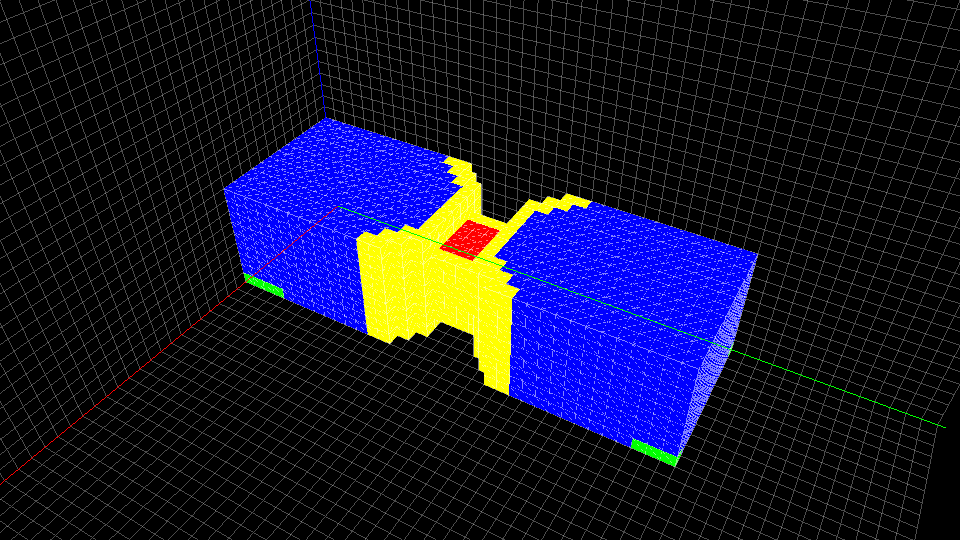
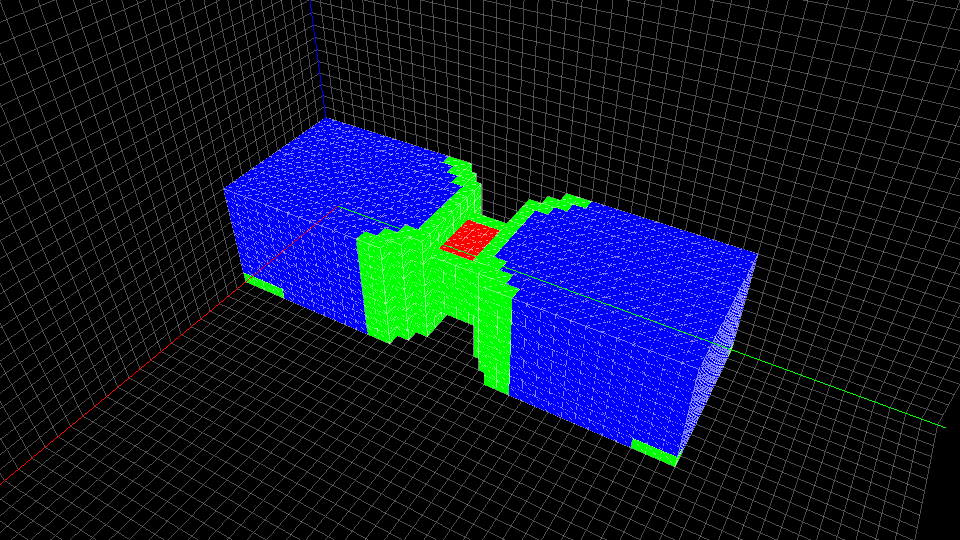
Changes to shell function
- Combined inside and outside shell into single function
- Will no longer generate a shell in the Z direction
- Now has a parameter to set the output material

Changed region(s): [[0.375, 0.2963, 0.625, 0.7407]]

diff --git a/model_tools.py b/model_tools.py
@@ -58,10 +58,10 @@ def nor(base_model, model_2):
 
 # Generation operations ############################################################
 # Create a shell around a model
-def shell_outside(base_model):
+def shell_xy(base_model, inside_outside, output_material):
     # Initialize output array
     new_model = np.zeros_like(base_model)
-    ones = np.ones((3, 2, 3))
+    ones = np.ones((3, 1, 3))
 
     x_len = len(base_model[0, 0, :])
     y_len = len(base_model[:, 0, 0])
@@ -70,31 +70,19 @@ def shell_outside(base_model):
     # Loop through model data
     for x in range(1, x_len-1):
         for y in range(1, y_len-1):
-            for z in range(1, z_len):
-                # If voxel is not empty
-                if base_model[y, z, x] != 0:
-                    new_model[y-1:y+2, z-1:z+1, x-1:x+2] = ones
-
-    new_model = difference(new_model, base_model)
-    return new_model
-
-# Create a shell around a model
-def shell_inside(base_model):
-    # Initialize output array
-    new_model = np.zeros_like(base_model)
-    ones = np.ones((3, 2, 3))
-
-    x_len = len(base_model[0, 0, :])
-    y_len = len(base_model[:, 0, 0])
-    z_len = len(base_model[0, :, 0])
-
-    # Loop through model data
-    for x in range(1, x_len-1):
-        for y in range(1, y_len-1):
-            for z in range(0, z_len-1):
+            for z in range(0, z_len):
                 # If voxel is empty
-                if base_model[y, z, x] == 0:
-                    new_model[y-1:y+2, z:z+2, x-1:x+2] = ones
+                if (inside_outside == 0) and (base_model[y, z, x] == 0):
+                    new_model[y - 1:y + 2, z:z + 1, x - 1:x + 2] = ones
+                # If voxel is not empty
+                elif (inside_outside == 1) and (base_model[y, z, x] != 0):
+                    new_model[y-1:y+2, z:z+1, x-1:x+2] = ones
 
-    new_model = difference(new_model, invert(base_model))
+    if inside_outside == 0:
+        new_model = difference(new_model, invert(base_model))
+    else:
+        new_model = difference(new_model, base_model)
+
+    new_model = new_model*output_material
+
     return new_model

diff --git a/Shell-Demo/shell.py b/Shell-Demo/shell.py
@@ -15,16 +15,16 @@ if __name__=='__main__':
     # Import model ##############################################################
     joint1 = model.import_vox('joint5.vox')
 
-    outsideShell = model.shell_outside(joint1)
+    shell1 = model.shell_xy(joint1, 1, 226)
 
     # Initialize application 1
     app1, w1 = plot.prep()
 
     # Convert model to mesh data
-    v, vc, t = mesh.create_from_model(model.union(joint1, outsideShell))
+    v, vc, t = mesh.create_from_model(model.union(shell1, joint1))
 
     # Create mesh item and add to plot
-    mi = plot.make_mi(v, t, vc, drawEdges = True, edgeColor=(1,1,1,0.5))
+    mi = plot.make_mi(v, t, vc, drawEdges = True)
     w1.addItem(mi)
 
     # Show plot 1
@@ -36,16 +36,16 @@ if __name__=='__main__':
 
     # Isolate flexible components ###############################################
     flexComponents = model.isolate_material(joint1, 217)
-    outsideShell = model.shell_outside(flexComponents)
+    shell2 = model.shell_xy(flexComponents, 1, 226)
 
     # Initialize application 2
     w2 = plot.add_widget()
 
     # Convert model to mesh data
-    v, vc, t = mesh.create_from_model(model.union(flexComponents, outsideShell))
+    v, vc, t = mesh.create_from_model(model.union(shell2, flexComponents))
 
     # Create mesh item and add to plot
-    mi = plot.make_mi(v, t, vc, drawEdges=True, edgeColor=(1, 1, 1, 0.5))
+    mi = plot.make_mi(v, t, vc, drawEdges=True)
     w2.addItem(mi)
 
     # Show plot 2

diff --git a/opengl_plot_tools.py b/opengl_plot_tools.py
@@ -12,7 +12,7 @@ def add_widget():
     widget = pgo.GLViewWidget()
     return widget
 
-def make_mi(vertices, triangles, vertex_colors = None, face_colors = None, drawEdges = False, edgeColor = (1,1,1,1)):
+def make_mi(vertices, triangles, vertex_colors = None, face_colors = None, drawEdges = False, edgeColor = (1,1,1,0.5)):
     mesh_data = pgo.MeshData(vertexes = vertices, faces = triangles, vertexColors = vertex_colors, faceColors = face_colors)
     mesh_item = pgo.GLMeshItem(meshdata = mesh_data, shader='balloon', drawEdges=drawEdges, edgeColor = edgeColor, smooth=False, computeNormals = False, glOptions='translucent')
     #mesh_item = pgo.GLMeshItem(meshdata = mesh_data, shader='shaded', drawEdges=False, smooth=True, computeNormals = True, glOptions='opaque')
